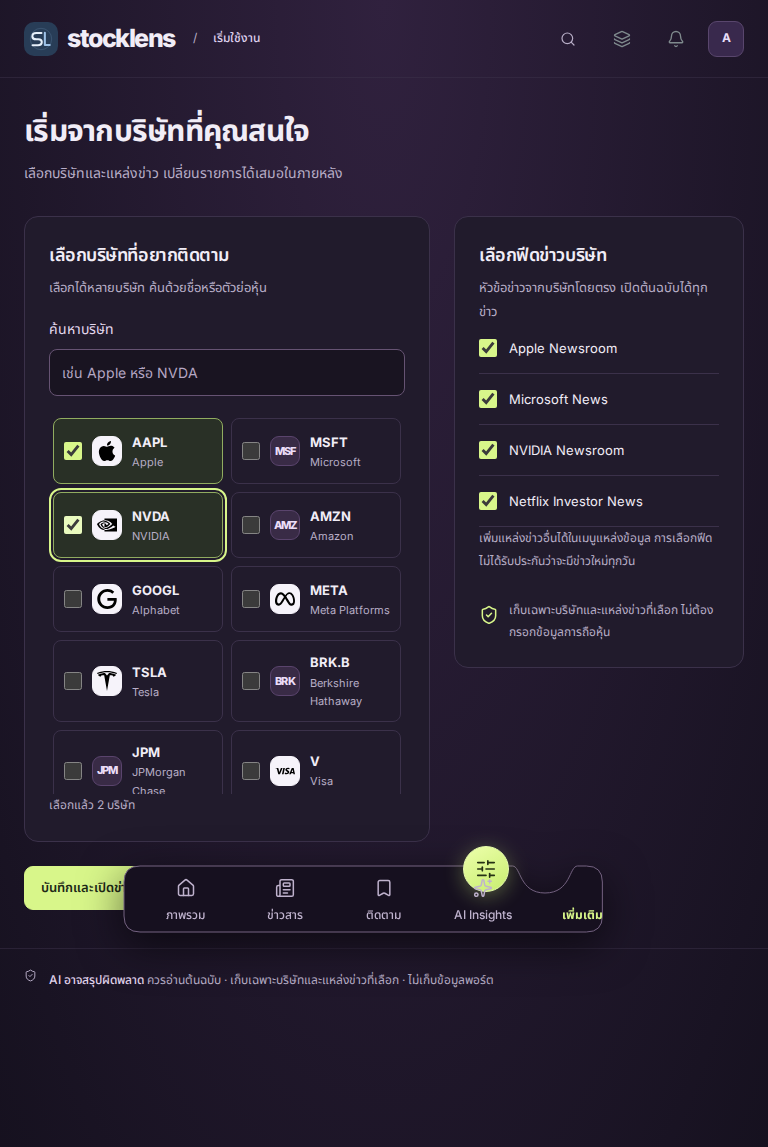
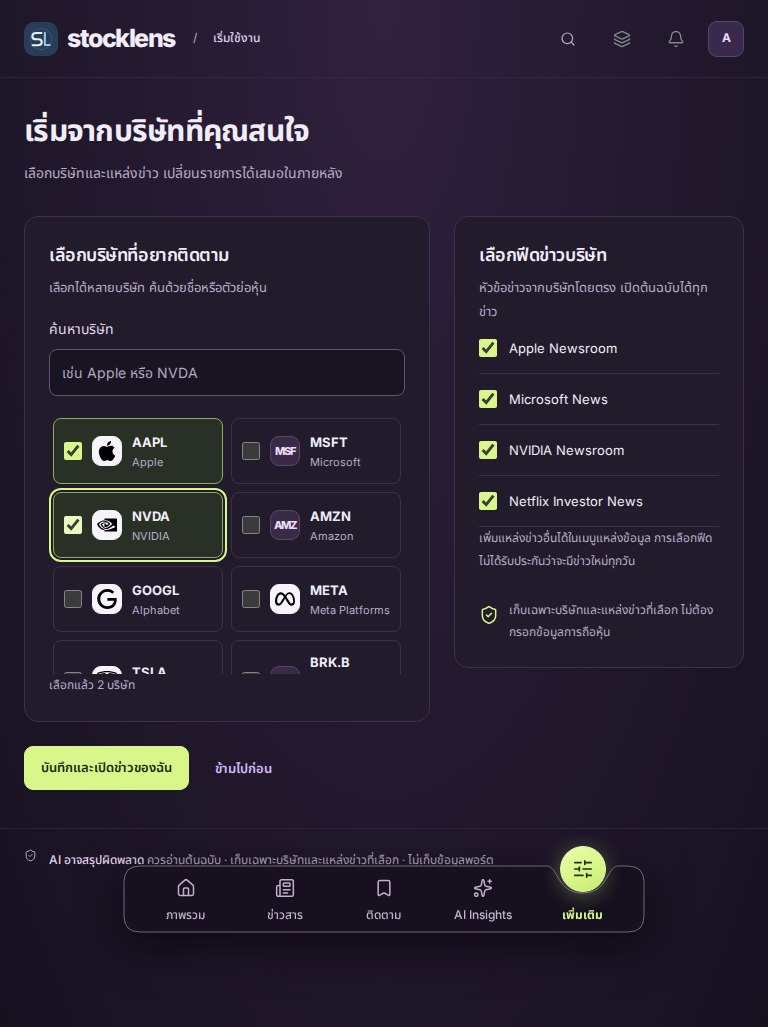
Keep first-use save action clear of the floating dock

diff --git a/dist/ui-polish.css b/dist/ui-polish.css
@@ -93,7 +93,7 @@ body.signed-out{background:linear-gradient(120deg,#f6f3f5 5%,#eeedf8 60%,#e2e2fa
 
 /* Account setup uses real selections; session details stay in the signed-in frame. */
 .setup-layout{display:grid;grid-template-columns:minmax(0,1.4fr) minmax(260px,1fr);gap:24px;max-width:1060px}
-.setup-layout p.muted{font-size:13px;margin-top:6px}.setup-company-list{display:grid;grid-template-columns:repeat(2,minmax(0,1fr));gap:8px;max-height:380px;overflow-y:auto;padding:4px;overscroll-behavior:contain}
+.setup-layout p.muted{font-size:13px;margin-top:6px}.setup-company-list{display:grid;grid-template-columns:repeat(2,minmax(0,1fr));gap:8px;max-height:clamp(140px,calc(100dvh - 690px),320px);overflow-y:auto;padding:4px;overscroll-behavior:contain}
 .setup-option{display:flex;align-items:center;gap:10px;min-width:0;min-height:66px;border:1px solid var(--line);border-radius:8px;padding:10px;cursor:pointer}.setup-option:hover,.setup-option:has(input:checked){border-color:#91ac60;background:#293026}.setup-option:focus-within,.setup-source-option:focus-within{outline:2px solid #d8f68a;outline-offset:2px}.setup-option[hidden]{display:none}
 .setup-option input,.setup-source-option input{flex-shrink:0;width:18px;height:18px;margin:0;cursor:pointer}.setup-option>span:last-child{min-width:0}.setup-option b{display:block;font-size:13px}.setup-option small{display:block;font-size:11px;color:var(--muted);overflow-wrap:anywhere}.setup-option .company-logo{width:30px;height:30px}.setup-option img{width:24px;height:24px}.setup-sources{align-self:start}.setup-source-option{display:flex;align-items:center;gap:12px;padding:14px 0;border-bottom:1px solid var(--line);min-height:50px;font-size:13px;cursor:pointer}.setup-privacy{display:flex;gap:10px;align-items:flex-start;margin-top:26px;color:var(--muted)}.setup-privacy svg{color:var(--accent);margin-top:6px}.setup-privacy p{font-size:12px}.setup-actions{grid-column:1/-1;display:flex;align-items:center;gap:20px;flex-wrap:wrap}.setup-actions .form-error{flex-basis:100%}.setup-actions .form-error .text-button{margin-left:8px}
 .devices-panel{max-width:1060px}.devices-panel>.small-note{max-width:85ch}.device-row{display:flex;align-items:flex-start;gap:16px;padding:24px 0;border-bottom:1px solid var(--line)}.device-row:last-child{margin-bottom:24px}.device-icon{display:grid;place-items:center;flex-shrink:0;width:40px;height:40px;border-radius:10px;background:#382942;color:#d8f68a}.device-details{flex:1;min-width:0}.device-details h2{font-size:16px;display:flex;gap:12px;align-items:center;flex-wrap:wrap}.device-current{font-size:11px;font-weight:500;color:#d8f68a}.device-details dl{display:flex;gap:12px 28px;flex-wrap:wrap;margin:12px 0 0}.device-details dt{font-size:11px;color:var(--muted)}.device-details dd{font-size:12px;margin:2px 0 0;overflow-wrap:anywhere}.device-row>.btn{flex-shrink:0}
